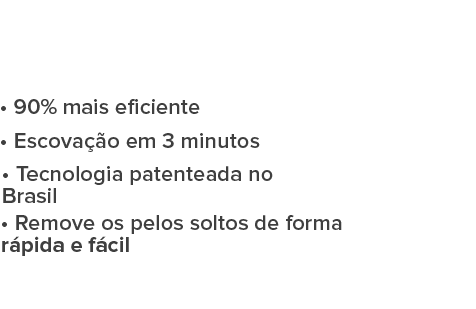
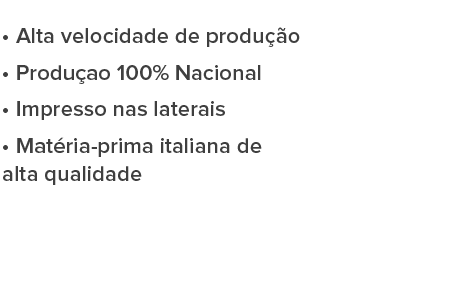
some changes

diff --git a/index.html b/index.html
@@ -30,13 +30,13 @@
        
         <div class="header">
             <div class="container">
-                <h1 id="logo">Neopet</h1>
-                <h2>A Neopet em sua loja!</h2>
+                <h1 id="logo">Neocase</h1>
+                <h2>Cases de celular para sua empresa</h2>
             </div>
         </div>
         <div class="videoTape">
             <div class="container">
-                <img src="assets/img/neoCover.png"/>
+                <img src="assets/img/headerImg.png"/>
             </div>
         </div>
         <div class="content">
@@ -44,14 +44,17 @@
                 <div class="clearfix">
                     <div class="half">
                         <p>
-                            A Neopet apresenta ao mercado um produto que engloba eficiência e praticidade, garantindo a qualidade desejada aos profissionais da área. 
+                            A NeoCases traz para sua empresa a oportunidade de possuir um produto original e criativo. A tendência de produtos personalizados está a cada dia se consolidando, afinal, quem não gosta de possuir um produto único e exclusivo?
                             <br/>
                             <br/>
-                            A escova PET garante a remoção de pelos de animais de portes pequenos, médios e grandes em apenas três minutos, sendo um dos produtos líderes de venda do segmento. 
+                            É pensando nisso, que a NeoCases disponibiliza à sua empresa a oportunidade de criar cases para celulares personalizadas, priorizando alta qualidade e custo baixíssimo em sua produção.
+                            <br/>
+                            <br/>
+                            Com cases personalizadas você estará levando sua marca com o cliente para todos os lugares que ele for.
                         </p>
                         <h3>
-                            Não perca mais tempo,<br/>
-                            leve agora mesmo para sua loja!
+                            Tá esperando o quê?<br/>
+                            Faça agora mesmo a case de sua empresa!
                        </h3>
                     </div>
                     <div class="half right">
@@ -59,19 +62,32 @@
                             <img src="assets/img/slider/sizer.png" id="sizer"/>
                             <ul class="slideItems">
                                 <li class="active">
-                                    <img src="assets/img/slider/pequeno.png" alt="">
+                                    <img src="assets/img/slider/01.png" alt="">
                                 </li>
                                 <li>
-                                    <img src="assets/img/slider/medio.png" alt="">
+                                    <img src="assets/img/slider/02.png" alt="">
                                 </li>
                                 <li>
-                                    <img src="assets/img/slider/grande.png" alt="">
+                                    <img src="assets/img/slider/03.png" alt="">
                                 </li>
+                                <li>
+                                    <img src="assets/img/slider/04.png" alt="">
+                                </li>
+                                <li>
+                                    <img src="assets/img/slider/05.png" alt="">
+                                </li>
+                                <li>
+                                    <img src="assets/img/slider/06.png" alt="">
+                                </li>
+                                
                             </ul>
                             <ul class="controls">
-                                <li data-size="p" class="current">P</li>
-                                <li>M</li>
-                                <li>G</li>
+                                <li class="current">1</li>
+                                <li>2</li>
+                                <li>3</li>
+                                <li>4</li>
+                                <li>5</li>
+                                <li>6</li>
                             </ul>
                         </div>
                     </div>

diff --git a/assets/css/main.css b/assets/css/main.css
@@ -160,18 +160,15 @@ h2{
 }
 .videoTape .container{
     padding: 0;
+    max-width: 558px;
+    overflow: hidden;
 }
 .videoTape .container img{
-    width: 100%;
-    height: auto;
-}
-.videoTape .container #videoHolder{
-    width: 100%;
-    height: 100%;
-    position: absolute;
-    top: 0;
-    left: 0;
-    display: none;
+    width: auto;
+    height: 513px;
+    display: block;
+    margin: 0 auto;
+    opacity: 0;
 }
 .content{
     padding-top: 50px;
@@ -228,23 +225,24 @@ h2{
 .content .container .half.right .slider .controls{
     position: absolute;
     bottom: -20px;
-    left: 0;
+    right: 10px;
     padding: 0;
 }
 .content .container .half.right .slider .controls li{
     font-family: 'pn'; 
+    font-size: 12px;
     cursor: pointer;
-    width: 25px;
-    height: 25px;
+    width: 21px;
+    height: 21px;
     border: 1px solid #05afef;
     border-radius: 50%;
-    line-height: 24px;
+    line-height: 21px;
     text-align: center;
     color: #05afef;
     list-style: none;
     display: inline-block;
-    margin: 0 7px;
-    font-weight: 600;
+    margin: 0 2px;
+    font-weight: 700;
     box-sizing: border-box;
 }
 .content .container .half.right .slider .controls li.current{

diff --git a/assets/js/main.js b/assets/js/main.js
@@ -31,6 +31,7 @@ function actions() {
     });
 }
 function afterLoaded() {
+    $('.videoTape .container img').addClass('animated fadeInDown');
 }
 
 
